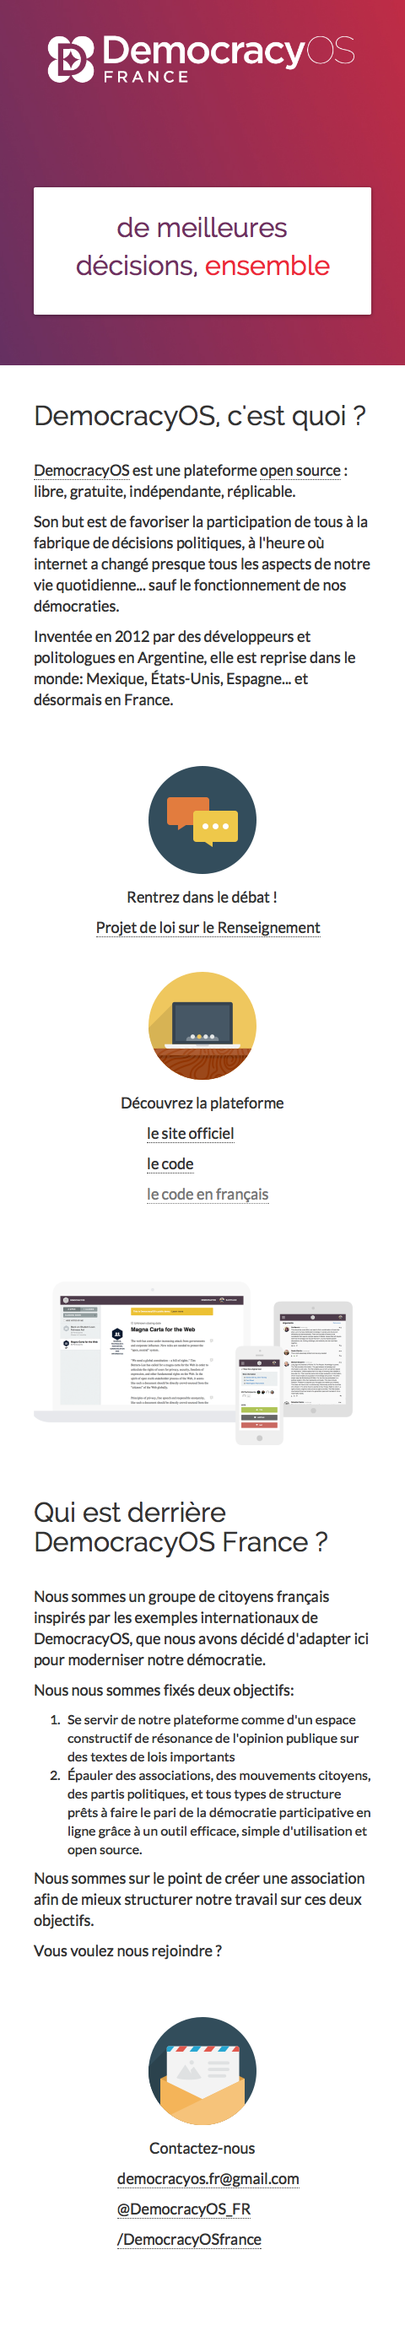
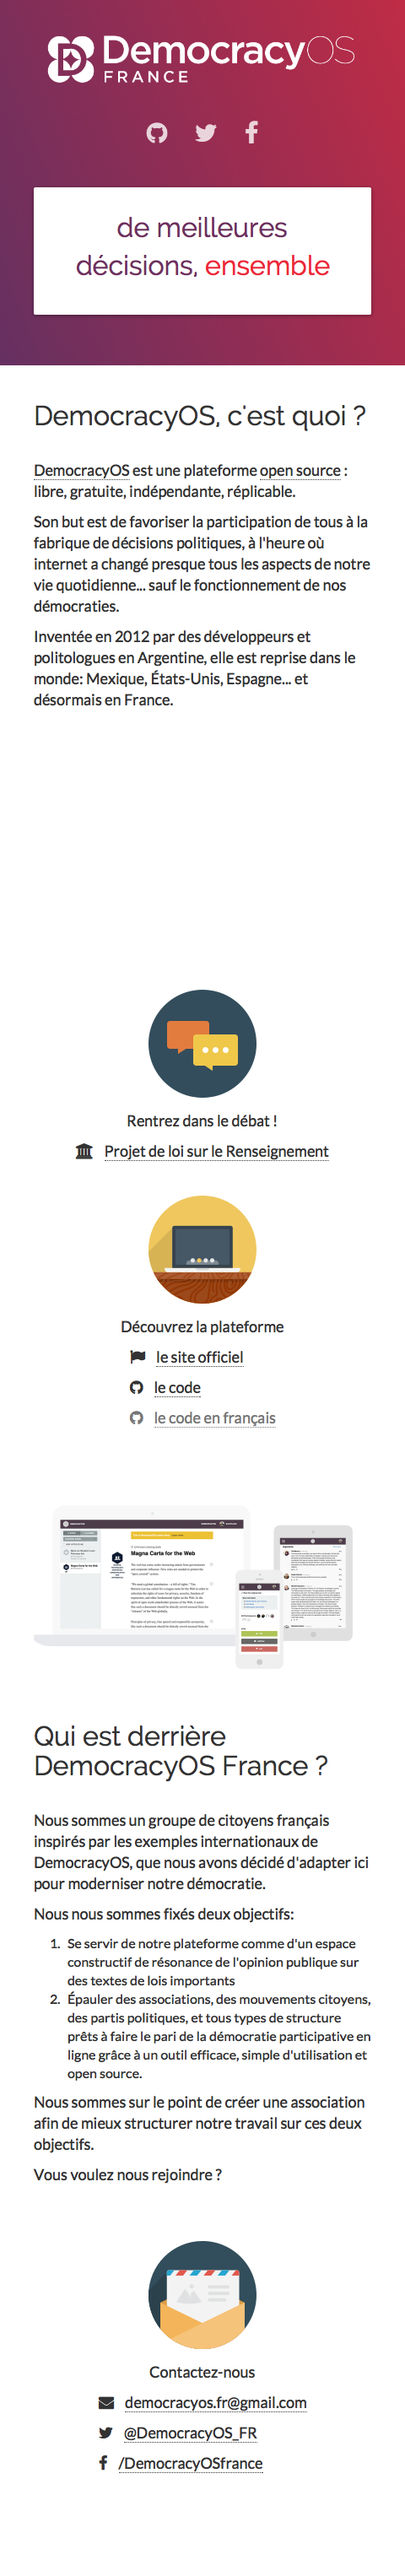
update index with video

Changed region(s): [[0.0, 0.0, 1.0, 0.9674], [0.8125, 0.0, 0.875, 0.0312], [0.1875, 0.4369, 0.2188, 0.4681]]

diff --git a/index.html b/index.html
@@ -59,13 +59,11 @@
       </p>
     </section>
 
-<!--
     <section class="container">
     	<div class="embed-responsive embed-responsive-16by9">
 				<iframe class="embed-responsive-item" src="https://embed-ssl.ted.com/talks/lang/fr/pia_mancini_how_to_upgrade_democracy_for_the_internet_era.html" webkitAllowFullScreen mozallowfullscreen allowFullScreen></iframe>
     	</div>
     </section>
--->
 
 		<section class="container">
 
